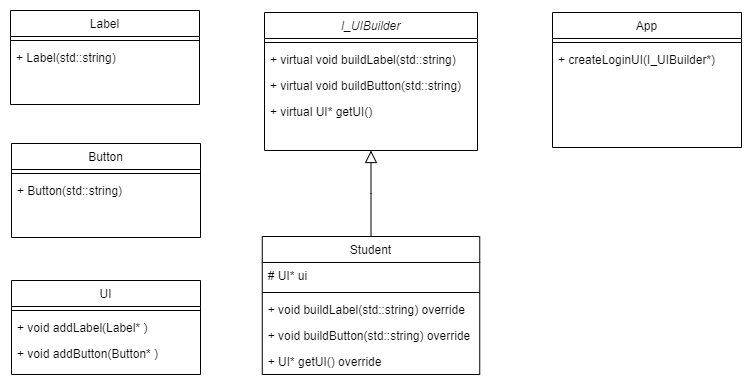
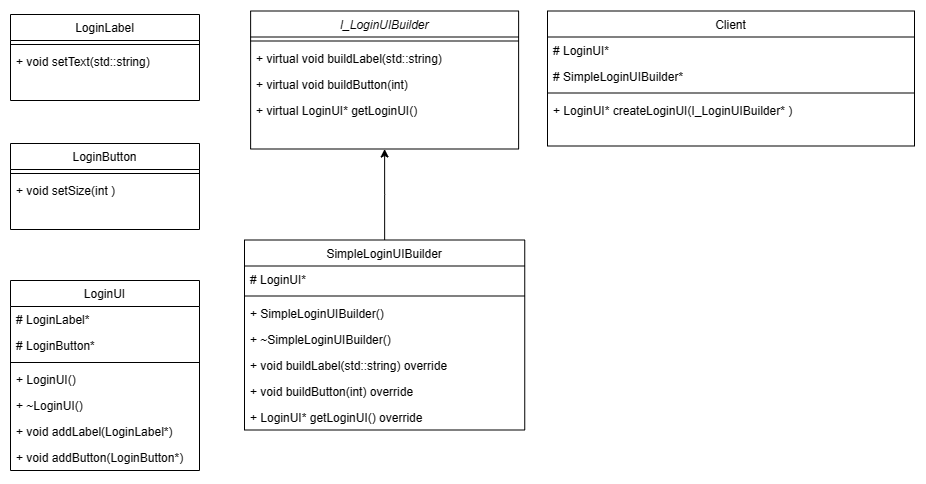
Updates for design pattern

diff --git a/engineering/software-engineering/data-structures-and-algorithms/design-patterns/creational-patterns/builder.md b/engineering/software-engineering/data-structures-and-algorithms/design-patterns/creational-patterns/builder.md
@@ -2,122 +2,195 @@
 
 **_The Builder design pattern is a creational pattern that helps creation of a complex object in a step by step fashion without specifying the construction process._**
 
-- Key Components are as follows :
-    <ol type="1">
-        <li>  Complex Object (Product): Any object that takes a lot of steps in it's construction process. </li>
-        <li> Parts: Sub components or sub products of the complex object.</li>
-        <li> Abstract Builder: An interface responsible for assembling the complex object step-by-step.</li>
-        <li> Concrete Builder: The class responsible for assembling the complex object step-by-step.</li>
-        <li> Director: An optional object that uses the builder to construct the product according to specific requirements.</li>
-    </ol>
+<br>
+
+![img](./_assets/builder-uml.png)
 
 <br>
 
-- The UML diagram for the pattern :
+## Components
 
-  ![img](./_assets/builder-uml.png)
+1. Product is the complex object that takes quite a number of steps to construct it. The product most likely constitutes of parts that make it up.
 
-<br>
+1. The product is constructed using a Builder. Abstract builder serves as an interface and concrete builder "builds" the product (complex object).
 
-- Applicability :
-
-  - The algorithm for creating a complex object should be independent of the parts that make up the object and how they’re assembled.
-  - The construction process must allow different representations for the object that’s constructed
-
-- Advantages :
-  - The interface lets the builder hide the representation and internal structure of the product.
-  - It isolates code for construction and representation.
-  - Facilitates finer control over the construction process.
-- Consequences :
-  - Requires careful consideration and validation mechanisms to ensure product integrity as there is no common interface in the case pure virtual functions are not implemented.
+1. Optionally, there is a director. However I am directly using the builder in the cient code.
 
 <br>
 
-- Note that the Gang of four book mentions to not to write the functions in the abstract builder class as pure virtual functions instead to keep them as empty virtual functions so that the child classes can override only what is necessary, However this contradicts the very definition of an abstract class or the interface in C++. I will be ignoring this and focus on the pattern.
+### Applicability
+
+1. This pattern is useful for creating complex objects where the client is independent of the constituent parts and the assembly process that make up the complex object.
+2. This pattern is useful for creating complex objects, whose construction process must allow different representations.
+
+<br>
+
+### Benefits
+
+Beyond its applicability to the above outlined use cases, the pattern offers:
+
+1. Encapsulation of the object construction process.
+1. Flexibility to modify existing implementation of object construction.
+
+<br>
+
+### Consequences
+
+1. Requires careful consideration and validation mechanisms to ensure product integrity as technically there is no actual interface!
+
+   - Note that the Gang of four book mentions not to write the functions in the abstract builder class as pure virtual functions instead to keep them as empty virtual functions so that the child classes can override only what is necessary, However this contradicts the very definition of an abstract class or the interface in C++. I will be ignoring this and focus on the pattern.
 
 <br>
 <br>
 
 ## Illustration
 
-- The UML diagram for an example
+![img](./_assets/builder-illus.png)
 
-  ![img](./_assets/builder-illus.png)
+```cpp
+#include <iostream>
 
-- `Label`, `Button`, `UI` : Product classes. They donot have an abstract base class because there is generally no interface that the products can adhere to in builder pattern.
-- `I_UIBuilder` : Abstract base class for builder. The functions are not pure pure virtual instead are empty virtual functions so that the concrete classes can override only what is necessary.
-- `LoginUIBuilder` : Concrete builder class. Has methods for building the complex object, UI object in our case.
-- `App` : Client that uses the concrete builder via the builder interface.
+//Constituent parts of the product
+class LoginLabel {
+public:
+    void setText(std::string text) {
+        //Implemention for setting the text for the label
+    }
+};
 
-  ```cpp
-  #include <iostream>
-  using namespace std;
+class LoginButton {
+public:
+    void setSize(int size)  {
+        //Implementation for event handler for the button click
+    }
+};
 
-  //products
-  class Label {
-  public:
-      Label(std::string text){}
-  };
 
-  class Button {
-  public:
-      Button(std::string text) {}
-  };
+//Complex object (the Product)
+class LoginUI {
+public:
+    LoginUI() :login_button{nullptr}, login_label{nullptr}{}
+    ~LoginUI() {
+        delete login_label;
+        delete login_button;
+    }
+    void addLabel(LoginLabel* label) {
+        login_label = label;
+     }
+    void addButton(LoginButton* btn) {
+        login_button = btn;
+     }
+protected:
+    LoginLabel* login_label;
+    LoginButton* login_button;
+};
 
-  class UI {
-  public:
-      void addLabel(Label* label){}
-      void addButton(Button* label){}
-  };
+//abstract builder
+class I_LoginUIBuilder {
+public:
+    virtual void buildLabel(std::string) {}
+    virtual void buildButton(int size) {}
+    virtual LoginUI* getLoginUI() { return 0; }
+};
 
-  //abstract builder
-  class I_UIBuilder {
-  public:
-      virtual void buildLabel(std::string ){}
-      virtual void buildButton(std::string){}
-      virtual UI* getUI() { return 0; }
-  };
 
-  class LoginUIBuilder : public I_UIBuilder {
-  public:
-      LoginUIBuilder() {
-          ui = new UI();
-      }
-      ~LoginUIBuilder() {
-          delete ui;
-      }
-      void buildLabel(std::string text) override{
-          Label* label = new Label(text);
-          ui->addLabel(label);
-      }
-      void buildButton(std::string text) override{
-          Button* button = new Button(text);
-          ui->addButton(button);
-      }
-      UI* getUI() override {
-          return ui;
-      }
-  protected:
-      UI* ui;
-  };
+//Concrete
+class SimpleLoginUIBuilder : public I_LoginUIBuilder {
+public:
+    SimpleLoginUIBuilder() {
+        ui = new LoginUI();
+    }
+    ~SimpleLoginUIBuilder() {
+        //delete ui;  Not needed as App class is handling the deletion of memory
+    }
+    void buildLabel(std::string text) override {
+        LoginLabel* label = new LoginLabel();
+        label->setText(text);
+        ui->addLabel(label);
+    }
+    void buildButton(int size) override {
+        LoginButton* button = new LoginButton();
+        button->setSize(size);
+        ui->addButton(button);
+    }
+    LoginUI* getLoginUI() override {
+        return ui;
+    }
+protected:
+    LoginUI* ui;
+};
 
-  //client
-  class App {
-  public:
-      UI* createLoginUI(I_UIBuilder* builder) {
-          builder->buildLabel("Existing User?");
-          builder->buildButton("login");
-          return builder->getUI();
-      }
-  };
+//Client
+class App {
+public:
+    App() {
+        login_ui_builder = new SimpleLoginUIBuilder();
+        login_ui = createLoginUI(login_ui_builder);
+    }
+    ~App() {
+        delete login_ui;
+        delete login_ui_builder;
+    }
+protected:
+    LoginUI* login_ui;
+    SimpleLoginUIBuilder* login_ui_builder;
 
-  int main() {
-      App my_app = App();
-      UI* login_ui = new UI();
-      LoginUIBuilder* login_ui_builder = new LoginUIBuilder();
-      login_ui = my_app.createLoginUI(login_ui_builder);
-  }
-  ```
+    LoginUI* createLoginUI(I_LoginUIBuilder* builder) {
+        builder->buildLabel("Existing User?");
+        builder->buildButton(5);
+        return builder->getLoginUI();
+    }
+};
+
+int main() {
+    App my_app = App();
+}
+```
+
+<br>
+
+### Components
+
+1. Product is the complex object that takes quite a number of steps to construct it. The product most likely constitutes of parts that make it up.
+
+   - `LoginUI` is the complex object, the product. `LoginLabel` and `LoginButton` are the constituent parts. They donot contain abstract base classes because there is generally no interface that the product and parts can adhere to in builder pattern.
+
+1. The product is constructed using a Builder. Abstract builder serves as an interface and concrete builder "builds" the product (complex object).
+
+   - `I_LoginUIBuilder` is the abstract builder class that serves as the interface for all concrete SimpleLoginUIBuilder's. The functions are not pure pure virtual instead are empty virtual functions so that the concrete classes can override only what is necessary. `SimpleLoginUIBuilder` is one such concrete builder class.
+
+1. Optionally, there is a director. However I am directly using the builder in the cient code.
+
+   - `App` : Client that uses the concrete builder via the builder interface.
+
+<br>
+
+### Applicability
+
+1. This pattern is useful for creating complex objects where the client is independent of the constituent parts and the assembly process that make up the complex object.
+
+   - In this illustration, the UI object is the complex object. LoginLabel and LoginButton are constituent parts that make up the UI. The client code doesn't know the implementation of Labels and the buttons, it justs uses the builder to build it.
+
+2. This pattern is useful for creating complex objects, whose construction process must allow different representations. (In other words: Flexibility to modify existing implementation of object construction.)
+
+   - A new representation of the complex object can be constructed by writing a new concrete builder class because builders are exposed via abstract builder interface.
+
+<br>
+
+### Benefits
+
+Beyond its applicability to the above outlined use cases, the pattern offers:
+
+1. Encapsulation of the object construction process.
+1. Flexibility to add new constituent parts in the assembly process of the product. (I'm guessing, could be devastatingly wrong!)
+
+<br>
+
+### Consequences
+
+1. Requires careful consideration and validation mechanisms to ensure product integrity as technically there is no actual interface!
+
+   - Difficult to fix broken code intriduced on modification of code as there is no actual interfaces for anything other than the builder.
 
 <br>
 <br>
@@ -128,4 +201,9 @@ The Abstract Pattern is very similar to the Builder pattern as it can also creat
 
 - _The primary difference is that the Builder pattern focuses on constructing a complex object step by step. Abstract Factory’s emphasis is on families of product objects (either simple or complex)._
 
+  - The builder interface is setup in such a way that it can accomodate different ways to construct the complex object (the product). From the start we have a fixed intention to create the `LoginUI` and and have no intention to use the pattern say to create a SignupUI.
+
 - Builder returns the product as a final step, but as far as the Abstract Factory pattern is concerned, the product gets returned immediately.
+
+  - Unlike the abstract factory pattern where every _"make"_ method would return a product, In the builder pattern the _"build"_ methods will not return anything but handles the construction process in the implementation and the final _"getProduct"_ (build() is another convention) method returns the product. Also, the build methods can be made chainable by making the return type as the builder's abstract class itself! (See client code)
+  - I have also notices that the abstract factory's _"make"_ methods generally don't take any parameters but the builder pattern's _"build"_ method do take parameters. Not sure if it can be designed otherwise for both patterns. (See client code)

diff --git a/engineering/software-engineering/data-structures-and-algorithms/design-patterns/creational-patterns/abstract-factory.md b/engineering/software-engineering/data-structures-and-algorithms/design-patterns/creational-patterns/abstract-factory.md
@@ -25,7 +25,9 @@
 
 ### Benefits
 
-1. Client is independent as it is isolated from the type of products created.
+Beyond its applicability to the above outlined use cases, the pattern offers:
+
+1. Encapsulation of implementations of the products.
 2. Flexibility to modify existing implementation.
 3. Flexibility to add a new families without breaking existing code. (_Given the new family also contains equal number of products as before_)
 
@@ -181,16 +183,14 @@ int main() {
 
    - In this illlustration, the products are UI, Label and Button and the family is "Login".
 
-2. This pattern is helpful in usecases where client is independent of how its products are created, composed, and represented.
-   - Client code just calls the make methods of the factory object and doesn't know how the product is created, composed or represented.
+2. This pattern is helpful in usecases where client is independent of how its products are created, composed, and represented. (Another way of saying this: Client is isolated from the type of porducts created)
+   - Client code doesn't contain any references to concrete classes (other than instantiation of the concrete factory), it contains the abstract classes in the type definitions and just calls the _"make"_ methods of the factory object. Hence doesn't know how the product is created, composed or represented.
 
 <br>
 
 ### Benefits
 
-1. Client is independent as it is isolated from the type of products created.
-
-   - The client code contains abstract classes in the type definitions. Hence, the client code is isolated from concrete classes of products. Basically client code should not contain any reference to concrete classes other than the factory.
+1. Encapsulation of implementations of the products.
 
 2. Flexibility to modify existing implementation.
 
